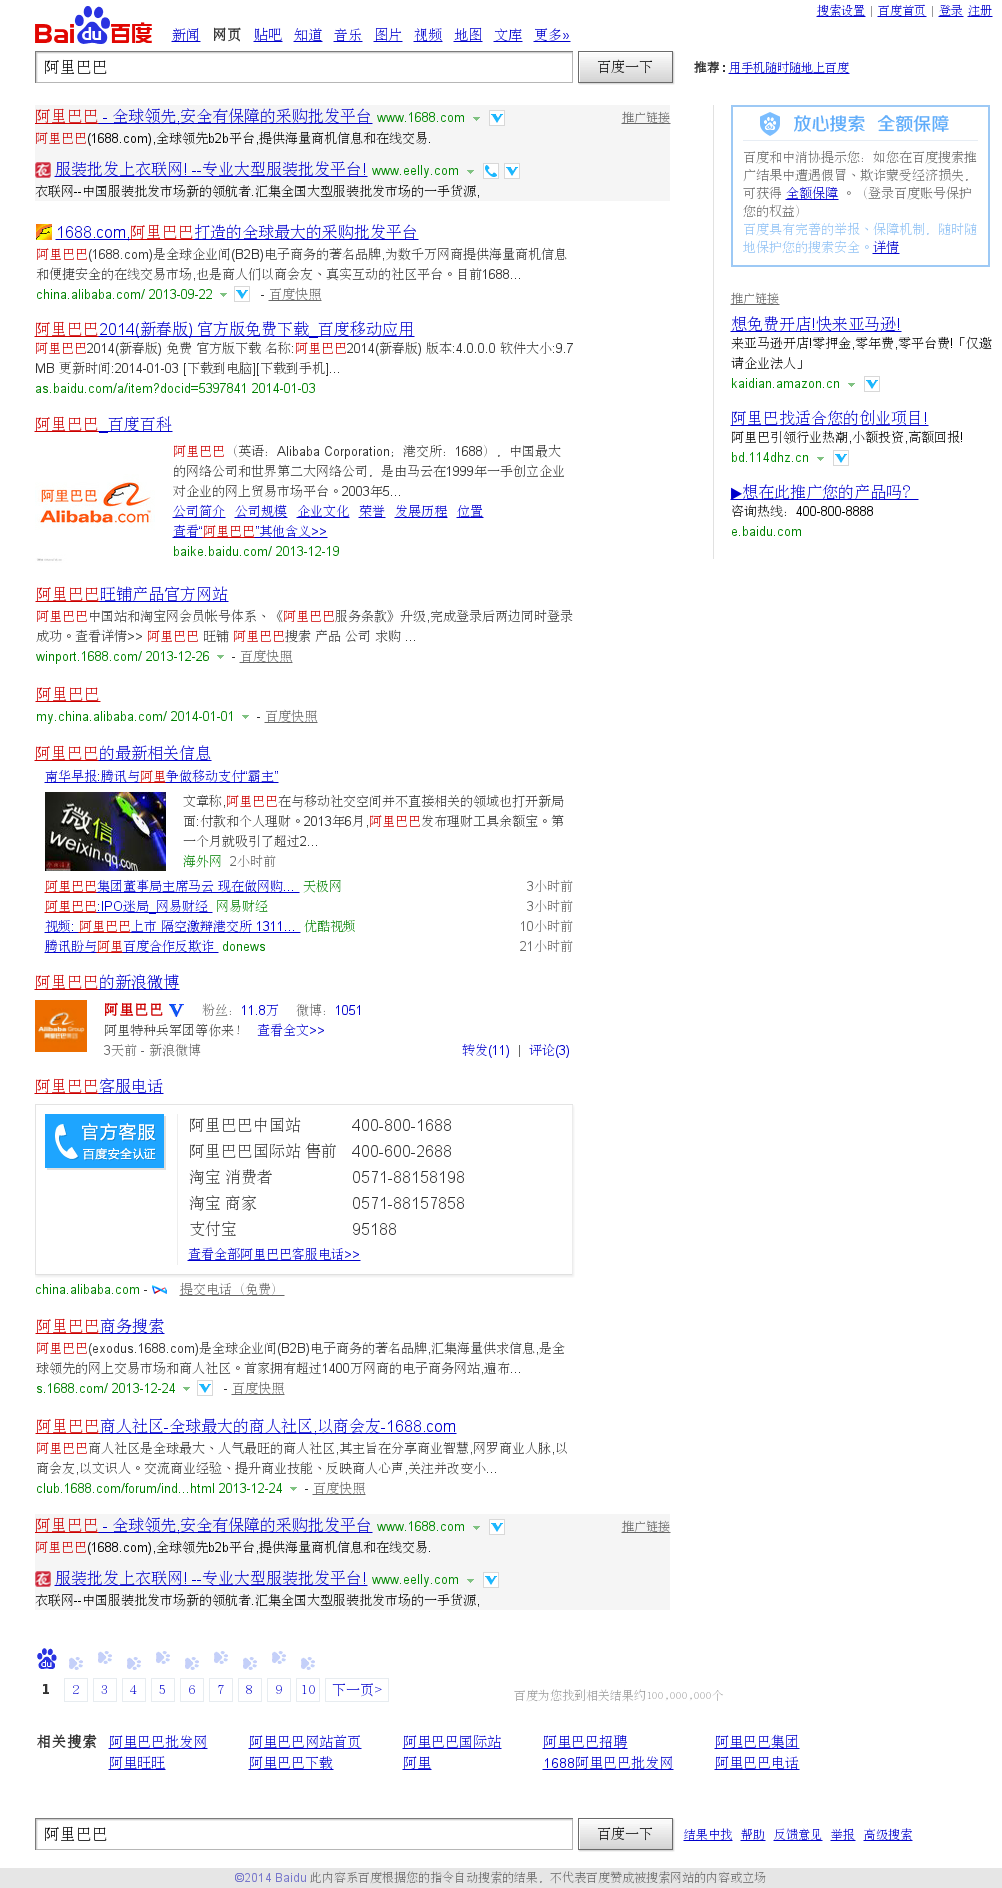
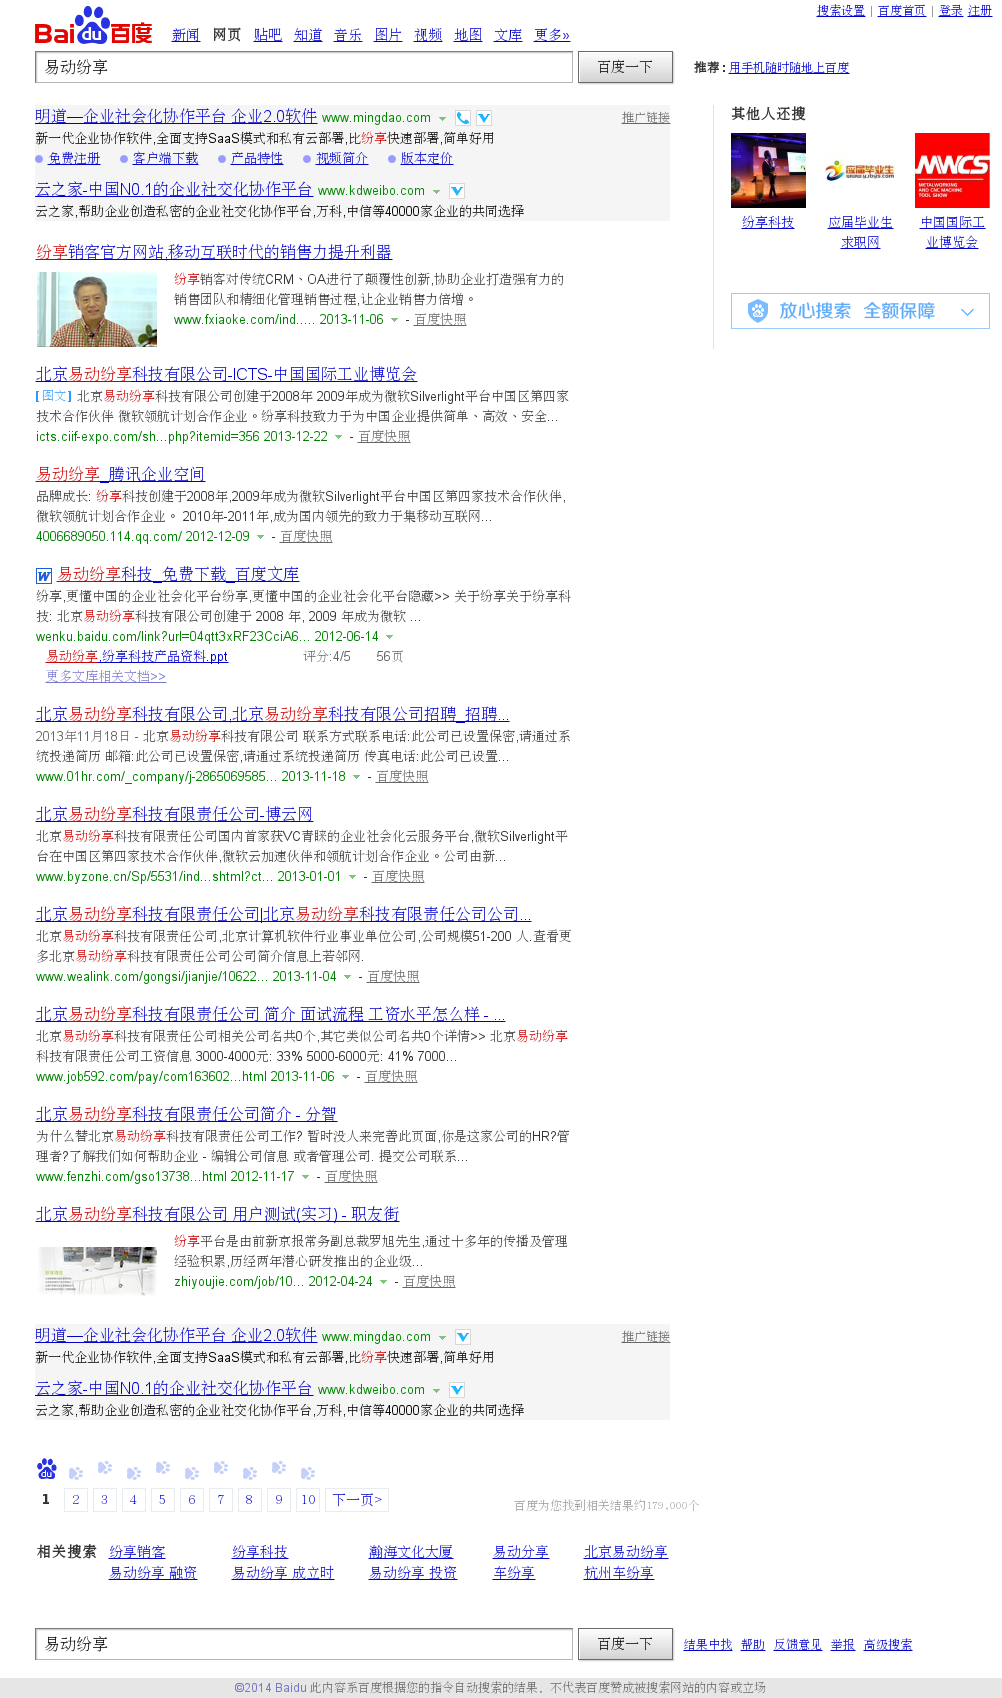
test

diff --git a/fxiaoke/advance.js b/fxiaoke/advance.js
@@ -93,7 +93,7 @@ page.open('http://www.baidu.com', function(status) {
     if ( status === "success" ) {
         page.includeJs("http://ajax.googleapis.com/ajax/libs/jquery/1.10.2/jquery.min.js", function() {
             page.evaluate(function() {
-                $('#kw').val('阿里巴巴');
+                $('#kw').val('易动纷享');
                 $('#su').click();
             });
             //phantom.exit();
